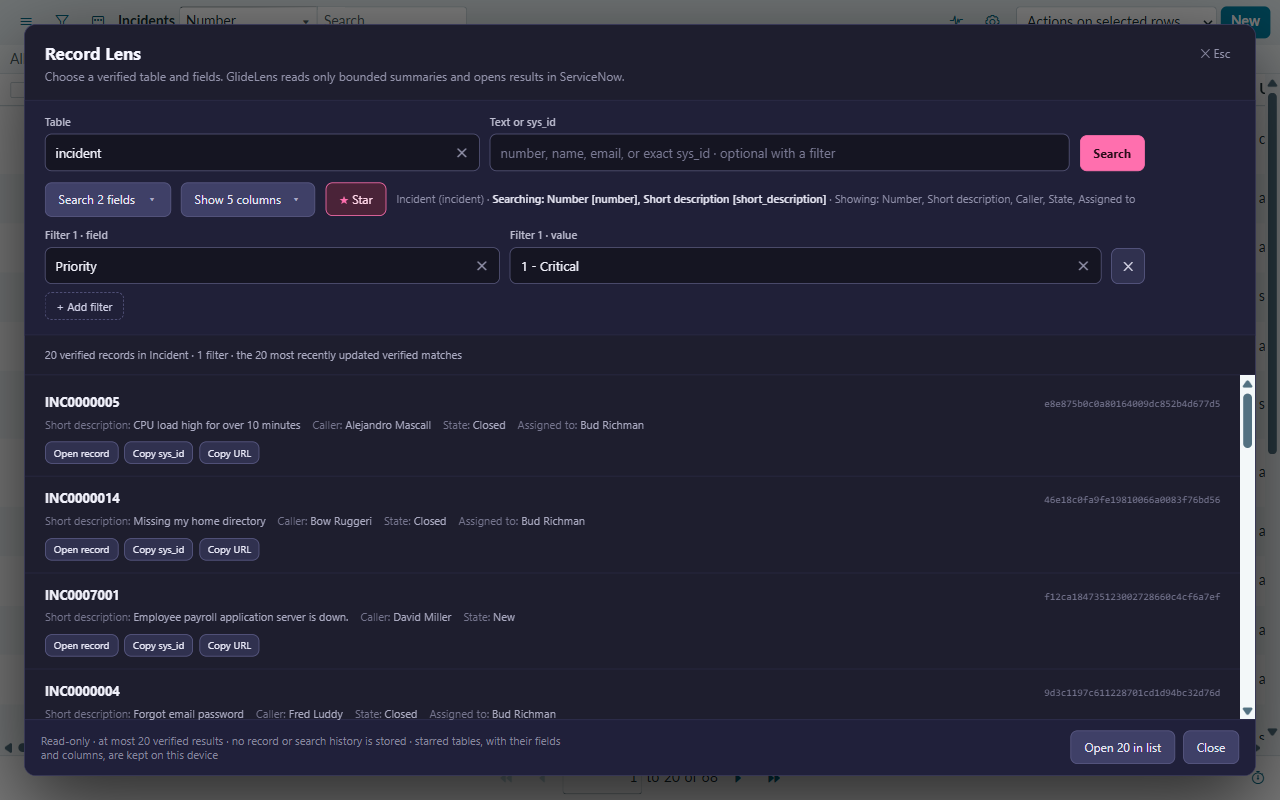
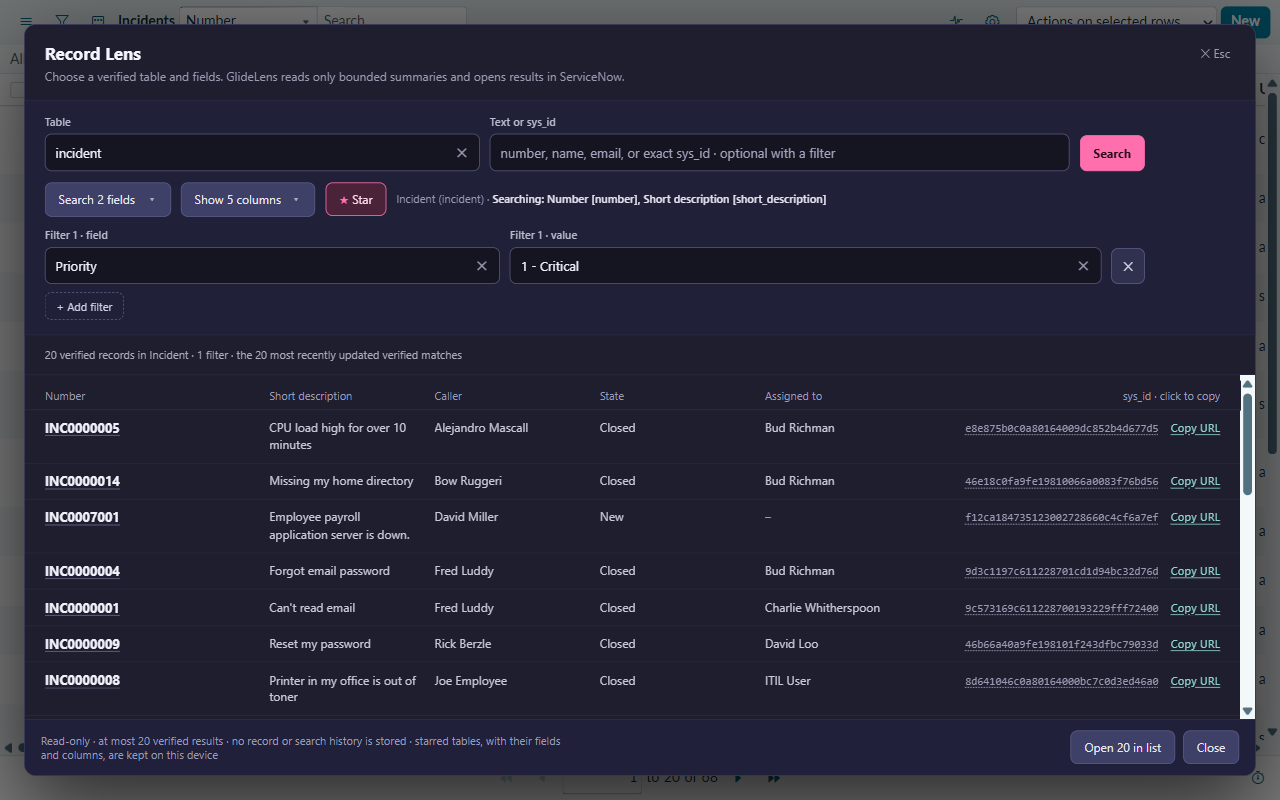
docs: refresh the site's Record Lens and Update Set Lens screenshots
Both images were the 0.18.0 captures. Record Lens now shows one line per
incident under a column header, and Update Set Lens shows each Stale row
opened as a card for this instance. The card's instance heading reads
"example", as the panel prints it on example.service-now.com, so no
instance name is published. The alt text describes the new images.

diff --git a/docs/index.html b/docs/index.html
@@ -2110,7 +2110,7 @@ a { color: var(--teal); }
           </div>
           <div class="shot is-media is-shot">
             <a href="shots/update-set-lens.png"><img src="shots/update-set-lens.png" width="1280" height="800" loading="lazy" decoding="async"
-              alt="Update Set Lens on a completed update set of eight updates: three marked Stale, two changed and one deleted later in an in-progress hotfix set, each naming who saved it and when; the rest Current." /></a>
+              alt="Update Set Lens on a completed update set of eight updates, three of them Stale: each Stale row opens as a card for this instance naming the in-progress hotfix set that holds a newer version, who saved it and when, with links to the update, the record and the newer set." /></a>
           </div>
         </div>
       </article>
@@ -2162,7 +2162,7 @@ a { color: var(--teal); }
           </div>
           <div class="shot is-media is-shot">
             <a href="shots/record-lens.png"><img src="shots/record-lens.png" width="1280" height="800" loading="lazy" decoding="async"
-              alt="Record Lens on the Incident table, starred, filtered to Priority 1 - Critical, showing Caller, State and Assigned to for the matching incidents, newest first." /></a>
+              alt="Record Lens on the Incident table, starred, filtered to Priority 1 - Critical: one line per incident under a column header for Number, Short description, Caller, State and Assigned to, newest first, each with its sys_id to copy." /></a>
           </div>
         </div>
       </article>
